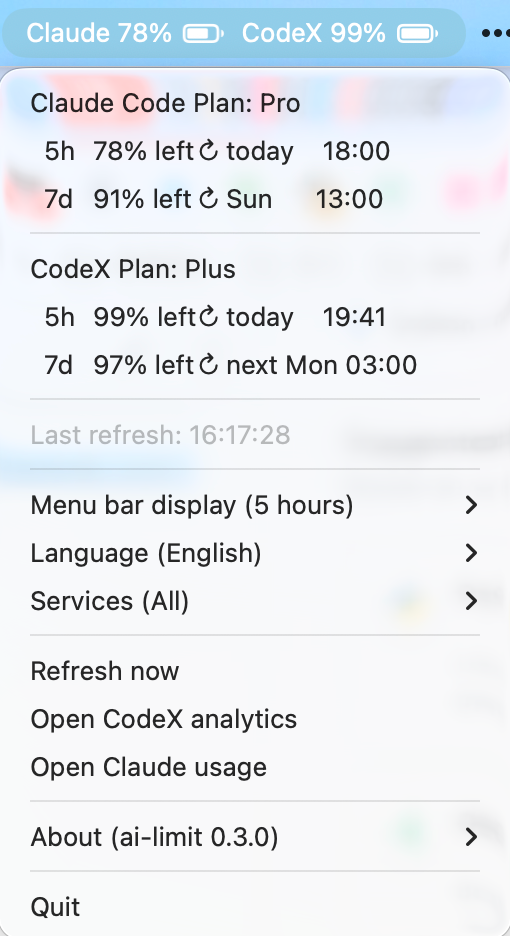
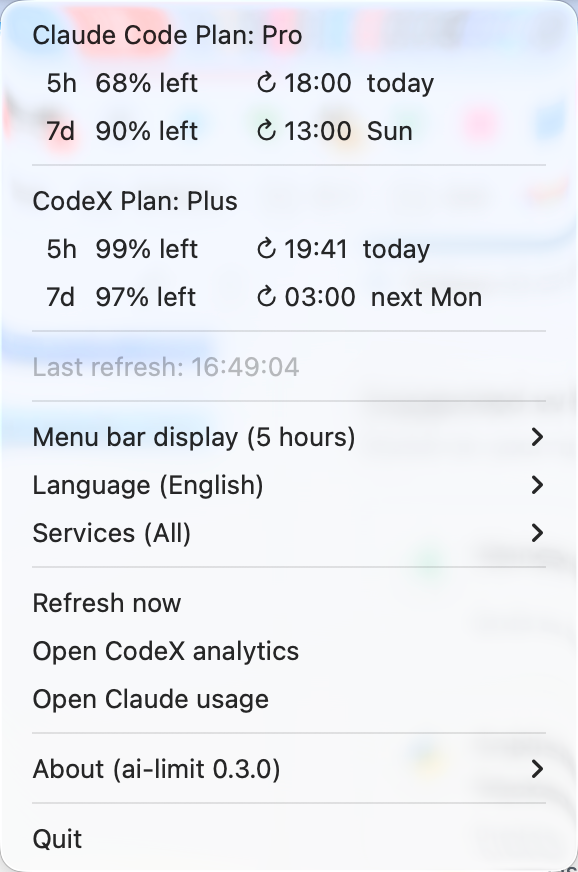
fix: 英文菜单行格式改为 time-first，符合英文语序并对齐时间列；更新下拉菜单截图

diff --git a/menubar/ai-limit-app.py b/menubar/ai-limit-app.py
@@ -72,7 +72,7 @@ def _fmt_reset_dt(dt, lang):
         elif days == 2:  wd = "2 days"
         elif next_week:  wd = f"next {_EN_WEEKDAYS[dt.weekday()]}"
         else:            wd = _EN_WEEKDAYS[dt.weekday()]
-        return f"{wd.ljust(_EN_RESET_PAD)} {dt:%H:%M}"
+        return f"{dt:%H:%M}  {wd}"
     if days == 0:    wd = "今天"
     elif days == 1:  wd = "明天"
     elif days == 2:  wd = "后天"
@@ -351,7 +351,7 @@ def _inert(menu_item):
 
 def _detail_text(mode, pct, reset, lang):
     if lang == "en":
-        return f"  {mode}\t{pct:>3}% left\t↻ {reset}"
+        return f"  {mode}\t{pct:>3}% left   \t↻ {reset}"
     return f"  {mode}\t{pct:>3}% 剩余\t↻ {reset}"
 
 # ── 主 App ────────────────────────────────────────────────────────────────────

diff --git a/README.md b/README.md
@@ -15,8 +15,8 @@ Lives in the menu bar, shows live quota at a glance — no terminal needed.
 ![Menu bar in context](docs/screenshot-menubar-3.png)
 
 <table><tr>
-  <td><img src="docs/screenshot-menubar-dropdown.png" width="280" /></td>
   <td><img src="docs/screenshot-menubar-dropdown-en.png" width="280" /></td>
+  <td><img src="docs/screenshot-menubar-dropdown.png" width="280" /></td>
 </tr></table>
 
 **One-line install**

diff --git a/README.zh-CN.md b/README.zh-CN.md
@@ -15,8 +15,8 @@
 ![菜单栏上下文](docs/screenshot-menubar-3.png)
 
 <table><tr>
-  <td><img src="docs/screenshot-menubar-dropdown.png" width="280" /></td>
   <td><img src="docs/screenshot-menubar-dropdown-en.png" width="280" /></td>
+  <td><img src="docs/screenshot-menubar-dropdown.png" width="280" /></td>
 </tr></table>
 
 **一键安装**